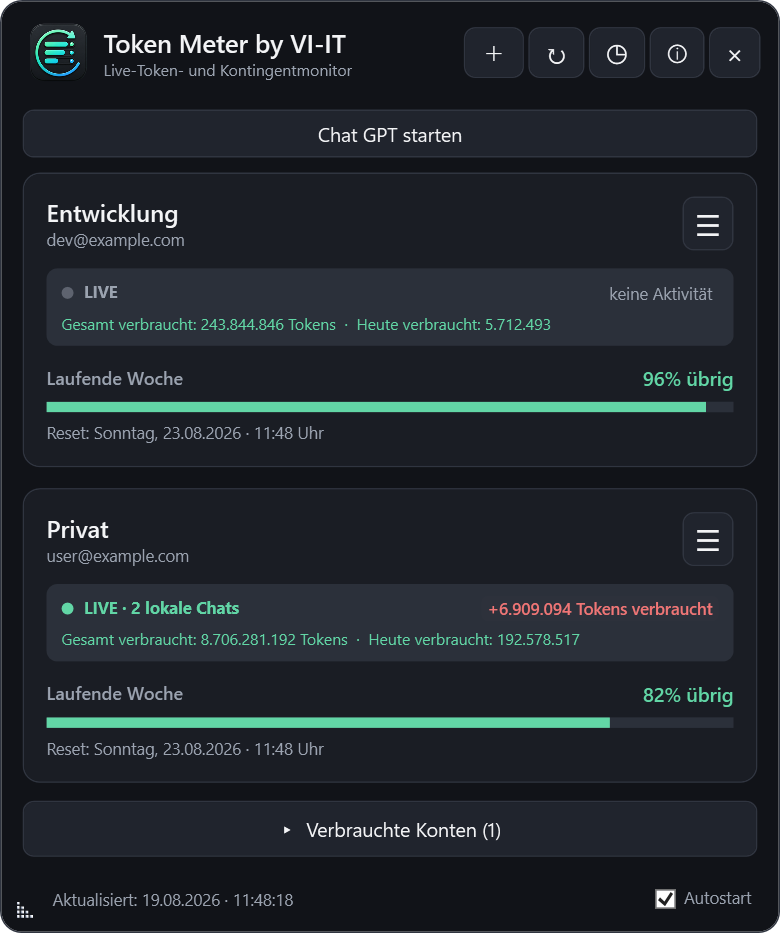
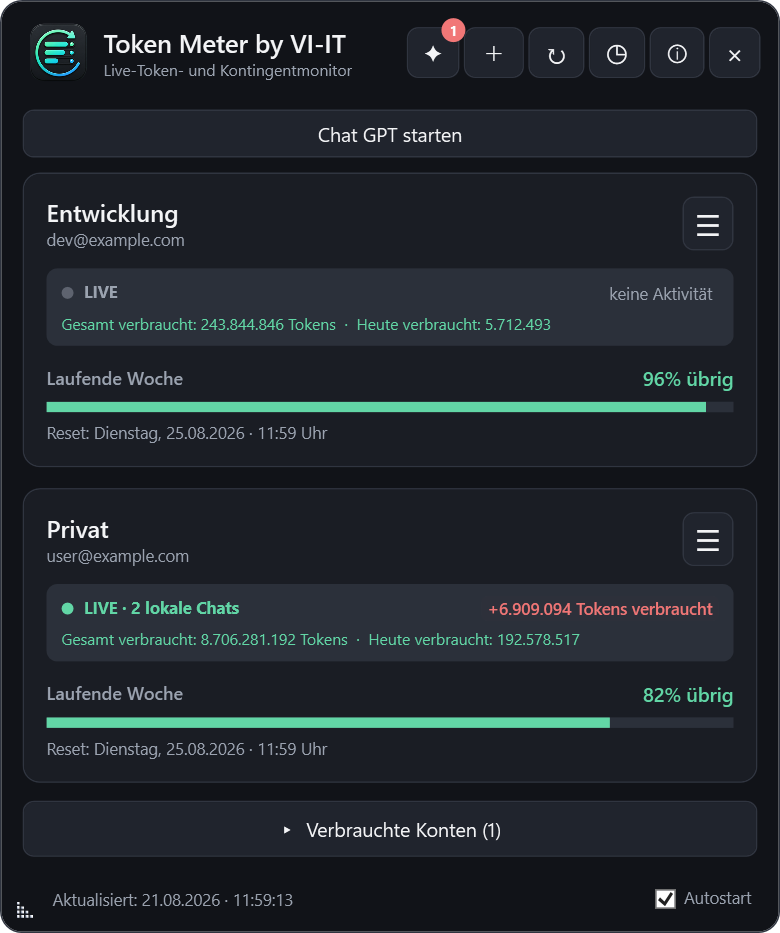
Publish Token Meter 1.0.17 update UX and changelog translation (#3)

diff --git a/README.md b/README.md
@@ -35,6 +35,10 @@ Token Meter checks the public Codex Reset Timeline directly every two minutes. N
 ### Features
 
 - Receive automatic Windows alerts for newly reported global Codex usage resets
+- See unread official ChatGPT and Codex changelog entries from the last seven days in a red header badge
+- Open a centered in-app changelog view; opening it marks the currently shown OpenAI entries as read
+- Always show the original English OpenAI changelog and, on German Windows, offer a separate **Translate** button on every entry
+- Translate only the entry selected by the user through Google Translate and cache that German result locally
 - Keep reset notices visible in the app until they are acknowledged
 - Review a persistent reset history with announced, account-detected, globally confirmed and rejected states
 - Detect a fresh seven-day quota window even when the first observed value is already 95–99%
@@ -55,7 +59,7 @@ Token Meter checks the public Codex Reset Timeline directly every two minutes. N
 - Click an account card to open a movable compact quota monitor
 - Minimize the compact monitor to a clean native Windows taskbar progress indicator
 - Flash the compact monitor briefly when the remaining weekly percentage decreases
-- Install future GitHub releases automatically and silently at startup
+- Install future GitHub releases automatically at startup while showing download and installation progress
 - Wait for Token Meter and its background processes to exit before replacing program files during an update
 - Show download percentage and transferred megabytes while an update is being retrieved
 - Verify cached installers against GitHub's SHA-256 digest and restart through an independent update worker
@@ -64,7 +68,11 @@ Token Meter checks the public Codex Reset Timeline directly every two minutes. N
 
 Each account is authenticated separately through the OpenAI/Codex sign-in flow. Quota and account consumption totals are requested for the linked account. Local LIVE activity is derived from Codex session files on the Windows PC where Token Meter is running.
 
-Version 1.0.13 embeds the official stable Codex 0.148.0 component. Token Meter uses its newer account-usage response to show a separate credit balance whenever OpenAI supplies one. For eligible workspaces, it also requests the optional per-thread token and estimated credit/cost figures for locally active sessions. OpenAI does not return those estimates for every account, so the extra line stays hidden when the data is unavailable; weekly quota and local LIVE monitoring continue normally.
+The header update indicator reads the fixed official OpenAI page at [`learn.chatgpt.com/docs/changelog`](https://learn.chatgpt.com/docs/changelog) when Token Meter starts and every six hours while it is running. It counts previously unseen entries dated within the latest seven calendar days. Opening the view marks only the currently displayed entry IDs as read, so a later OpenAI entry can light the badge again. The most recently retrieved entries and read IDs are cached locally for offline display.
+
+The changelog always opens with the original English OpenAI text. On German installations, each entry has its own **Translate** button. Google Translate is contacted only after that button is selected and receives only the public text of that one entry. The returned German text is cached against a hash of the OpenAI source and reused until the source changes. A failed translation affects only the selected card; its English original remains visible. English installations never contact the translation service. No local AI translation model is bundled.
+
+The current build embeds the official stable Codex 0.148.0 component. Token Meter uses its newer account-usage response to show a separate credit balance whenever OpenAI supplies one. For eligible workspaces, it also requests the optional per-thread token and estimated credit/cost figures for locally active sessions. OpenAI does not return those estimates for every account, so the extra line stays hidden when the data is unavailable; weekly quota and local LIVE monitoring continue normally.
 
 Token Meter identifies the account currently used by the ChatGPT/Codex desktop session and places its LIVE chat count and local consumption back inside the matching account card. Several ChatGPT workspaces can legitimately use the same e-mail address, so matching also uses the account's reported usage and reset windows. If the result is still ambiguous, Token Meter uses a separate local row instead of assigning activity to the wrong account.
 
@@ -86,6 +94,7 @@ The central ChatGPT button opens the existing official ChatGPT desktop app. Open
 
 - No passwords are requested or stored by Token Meter
 - No analytics, advertising or VI-IT cloud service is used
+- The optional news indicator requests the public official OpenAI changelog; only a German user's explicit **Translate** action sends the selected public entry to Google, never Token Meter accounts, token values or authentication data
 - Account profiles, authentication material and usage snapshots remain on the local Windows device
 - The distributed installer contains no developer accounts, cookies, sessions, caches or access tokens
 - Removing an account from Token Meter removes only its local Token Meter profile
@@ -134,6 +143,10 @@ Token Meter prüft alle zwei Minuten direkt die öffentliche Codex Reset Timelin
 ### Funktionen
 
 - Automatische Windows-Mitteilungen über neu gemeldete globale Codex-Kontingentresets erhalten
+- Ungelesene offizielle ChatGPT- und Codex-Changelog-Einträge der letzten sieben Tage als rote Zahl in der Kopfzeile sehen
+- Mittig geöffneten Changelog direkt in Token Meter lesen; beim Öffnen gelten die aktuell angezeigten OpenAI-Einträge als gelesen
+- Englischen OpenAI-Originaltext immer direkt anzeigen und unter deutschem Windows pro Eintrag einen eigenen Button **Übersetzen** anbieten
+- Ausschließlich den vom Benutzer ausgewählten Eintrag über Google Translate übersetzen und die deutsche Fassung lokal speichern
 - Reset-Hinweise im Hauptfenster behalten, bis sie ausdrücklich bestätigt wurden
 - Gespeicherten Reset-Verlauf mit angekündigten, kontoabhängig erkannten, global bestätigten und verworfenen Ereignissen öffnen
 - Neues Sieben-Tage-Fenster auch dann erkennen, wenn der erste sichtbare Wert bereits bei 95–99 % liegt
@@ -154,7 +167,7 @@ Token Meter prüft alle zwei Minuten direkt die öffentliche Codex Reset Timelin
 - Kontokarte anklicken und einen frei verschiebbaren kompakten Prozentmonitor öffnen
 - Kompaktmonitor mit sauberem Windows-Fortschrittsbalken in die Taskleiste minimieren
 - Kompaktmonitor bei sinkendem Wochenkontingent kurz aufleuchten lassen
-- Zukünftige GitHub-Versionen beim Programmstart automatisch und still installieren
+- Zukünftige GitHub-Versionen beim Programmstart automatisch installieren und dabei Download- sowie Installationsfortschritt sichtbar anzeigen
 - Vor dem Ersetzen der Programmdateien auf das vollständige Ende von Token Meter und seinen Hintergrundprozessen warten
 - Beim Herunterladen eines Updates Prozent und übertragene Megabyte anzeigen
 - Zwischengespeicherte Installer anhand der GitHub-SHA-256-Prüfsumme prüfen und über einen unabhängigen Update-Wächter neu starten
@@ -163,7 +176,11 @@ Token Meter prüft alle zwei Minuten direkt die öffentliche Codex Reset Timelin
 
 Jedes Konto wird getrennt über den OpenAI-/Codex-Anmeldeablauf authentifiziert. Kontingent und kontobezogener Gesamtverbrauch werden für das verknüpfte Konto abgefragt. Die lokale LIVE-Aktivität wird aus Codex-Sitzungsdateien auf genau dem Windows-PC ermittelt, auf dem Token Meter läuft.
 
-Version 1.0.13 enthält die offizielle stabile Codex-Komponente 0.148.0. Token Meter nutzt deren erweiterte Kontoauskunft, um ein separates Credit-Guthaben anzuzeigen, sobald OpenAI dieses liefert. Bei dafür freigeschalteten Workspaces werden zusätzlich die optionalen Token- sowie geschätzten Credit-/Kostenwerte der lokal aktiven Sitzungen abgefragt. OpenAI stellt diese Schätzwerte nicht für jedes Konto bereit; fehlen sie, bleibt die Zusatzzeile ausgeblendet und Wochenkontingent sowie lokale LIVE-Erkennung funktionieren unverändert weiter.
+Die Neuerungsanzeige in der Kopfzeile liest beim Start und anschließend alle sechs Stunden ausschließlich die feste offizielle OpenAI-Seite [`learn.chatgpt.com/docs/changelog`](https://learn.chatgpt.com/docs/changelog). Gezählt werden bisher ungelesene Einträge aus den letzten sieben Kalendertagen. Beim Öffnen werden nur die gerade angezeigten Eintrags-IDs als gelesen gespeichert; ein späterer neuer OpenAI-Eintrag aktiviert die rote Zahl deshalb erneut. Der zuletzt geladene Stand und die gelesenen IDs bleiben lokal gespeichert, damit das Fenster auch bei einer vorübergehend fehlenden Verbindung Inhalt zeigen kann.
+
+Der Changelog öffnet immer mit dem englischen OpenAI-Originaltext. In der deutschen Oberfläche besitzt jeder Eintrag einen eigenen Button **Übersetzen**. Erst dieser bewusste Klick kontaktiert Google Translate und übermittelt ausschließlich den öffentlichen Text des gewählten Eintrags. Die deutsche Fassung wird über einen Hash dem OpenAI-Quelleintrag zugeordnet und bis zu einer Änderung wiederverwendet. Schlägt eine Übersetzung fehl, betrifft das nur die ausgewählte Karte und ihr englisches Original bleibt sichtbar. Englische Installationen kontaktieren den Übersetzungsdienst nie. Ein lokales KI-Übersetzungsmodell wird nicht mitgeliefert.
+
+Der aktuelle Build enthält die offizielle stabile Codex-Komponente 0.148.0. Token Meter nutzt deren erweiterte Kontoauskunft, um ein separates Credit-Guthaben anzuzeigen, sobald OpenAI dieses liefert. Bei dafür freigeschalteten Workspaces werden zusätzlich die optionalen Token- sowie geschätzten Credit-/Kostenwerte der lokal aktiven Sitzungen abgefragt. OpenAI stellt diese Schätzwerte nicht für jedes Konto bereit; fehlen sie, bleibt die Zusatzzeile ausgeblendet und Wochenkontingent sowie lokale LIVE-Erkennung funktionieren unverändert weiter.
 
 Token Meter erkennt das gerade von der ChatGPT-/Codex-Desktop-Sitzung verwendete Konto und zeigt LIVE-Chats sowie lokalen Verbrauch wieder in der passenden Kontokarte an. Mehrere ChatGPT-Arbeitsbereiche können dieselbe E-Mail-Adresse verwenden; deshalb werden zusätzlich der gemeldete Verbrauch und die Reset-Fenster verglichen. Bleibt die Zuordnung mehrdeutig, erscheint eine getrennte lokale Zeile, statt Aktivität einem falschen Konto zuzuweisen.
 
@@ -185,6 +202,7 @@ Der zentrale ChatGPT-Button öffnet die bereits installierte offizielle ChatGPT-
 
 - Token Meter fragt keine Passwörter ab und speichert keine Passwörter
 - Keine Analysefunktionen, Werbung oder VI-IT-Cloud
+- Die optionale Neuerungsanzeige ruft den öffentlichen offiziellen OpenAI-Changelog ab; erst ein ausdrücklicher Klick auf **Übersetzen** sendet den gewählten öffentlichen Eintrag an Google, niemals Token-Meter-Konten, Tokenwerte oder Anmeldedaten
 - Kontoprofile, Authentifizierungsdaten und Nutzungsstände bleiben lokal auf dem Windows-Gerät
 - Der veröffentlichte Installer enthält keine Entwicklerkonten, Cookies, Sitzungen, Caches oder Zugriffstoken
 - Das Entfernen eines Kontos löscht ausschließlich dessen lokales Token-Meter-Profil

diff --git a/RELEASE_NOTES.md b/RELEASE_NOTES.md
@@ -1,33 +1,57 @@
-# Token Meter by VI-IT 1.0.13
+# Token Meter by VI-IT 1.0.17
 
 ## English
 
-Updates the embedded Codex component and adds truthful, capability-based credit and session-usage details.
+Makes changelog translation user-controlled and adds visible automatic-update progress.
 
-- Replaces the embedded Codex component with the official stable Codex CLI 0.148.0
-- Shows the separate OpenAI credit balance only when the account service reports an actual balance
-- Requests optional active-session token and estimated credit/USD figures introduced with Codex 0.148
-- Keeps those optional details hidden for accounts or workspaces where OpenAI does not provide them
-- Uses local session metadata to keep the LIVE count assigned to the matching account, with a separate local row when the match is ambiguous
-- Adds compatibility checks for the 0.148 app-server handshake, account usage, thread listing and per-thread usage response
-- Includes the authentication, reconnect and Windows reliability fixes shipped in Codex 0.148
+- Adds a new updates button immediately to the left of the add-account button
+- Reads the official OpenAI ChatGPT and Codex changelog directly from learn.chatgpt.com
+- Counts previously unseen official entries from the latest seven calendar days
+- Shows the unread count in a red badge; opening the view clears the count for the entries currently shown
+- Re-enables the badge automatically when OpenAI publishes another entry
+- Opens the changelog in a resizable window centered on the current screen
+- Always opens every changelog entry with the English OpenAI original
+- Adds one **Translate** button to every entry when Token Meter runs in German
+- Places that button at the beginning of each card before the potentially long changelog body
+- Contacts Google Translate only after the user selects that button and translates only the selected public entry
+- Sends long translations sequentially instead of creating parallel Google requests
+- Recognizes Google's HTTP 429 response, pauses further attempts for ten minutes and shows a precise per-entry message
+- Caches successful German translations locally and lets the user switch the selected card back to its original
+- Shows a failure only on the selected card while leaving all English originals available
+- Opens a dedicated progress window while an automatic update is downloaded
+- Shows the installer's progress during the unattended installation and restarts Token Meter afterwards
+- Caches the most recently retrieved entries and read IDs locally for temporary offline use
+- Sends only the public OpenAI changelog text for translation; no Token Meter account, token or authentication data is sent to Google
+- Adds no bundled AI translation model and therefore no large model payload to the installer
 - Keeps all existing accounts, authentication profiles, settings and quota history during the update
 
 ## Deutsch
 
-Aktualisiert die integrierte Codex-Komponente und ergänzt ehrliche, nur bei vorhandener Unterstützung sichtbare Credit- und Sitzungsdaten.
+Macht Changelog-Übersetzungen zur bewussten Benutzerauswahl und zeigt den Fortschritt automatischer Programmupdates sichtbar an.
 
-- Ersetzt die integrierte Codex-Komponente durch die offizielle stabile Codex CLI 0.148.0
-- Zeigt das separate OpenAI-Credit-Guthaben nur, wenn der Kontodienst ein echtes Guthaben meldet
-- Fragt die mit Codex 0.148 eingeführten optionalen Token- sowie geschätzten Credit-/USD-Werte aktiver Sitzungen ab
-- Blendet diese Zusatzdaten bei Konten oder Workspaces ohne OpenAI-Unterstützung vollständig aus
-- Ordnet die lokale LIVE-Anzahl weiterhin anhand lokaler Sitzungsmetadaten dem passenden Konto zu und verwendet bei Mehrdeutigkeit eine getrennte lokale Zeile
-- Ergänzt Kompatibilitätsprüfungen für 0.148-Handshake, Kontoauskunft, Sitzungsliste und sitzungsbezogene Nutzung
-- Übernimmt die in Codex 0.148 enthaltenen Verbesserungen für Anmeldung, Wiederverbindung und Windows-Zuverlässigkeit
+- Fügt direkt links neben dem Plus für neue Konten einen Neuerungs-Button ein
+- Liest den offiziellen ChatGPT- und Codex-Changelog direkt von learn.chatgpt.com
+- Zählt bisher ungelesene offizielle Einträge aus den letzten sieben Kalendertagen
+- Zeigt die Anzahl als rote Zahl; beim Öffnen gelten die aktuell dargestellten Einträge als gelesen
+- Aktiviert die rote Zahl automatisch wieder, sobald OpenAI einen weiteren Eintrag veröffentlicht
+- Öffnet den Changelog in einem größenveränderbaren Fenster mittig auf dem aktuellen Bildschirm
+- Öffnet jeden Changelog-Eintrag grundsätzlich mit dem englischen OpenAI-Original
+- Zeigt in der deutschen Oberfläche bei jedem Eintrag einen eigenen Button **Übersetzen**
+- Platziert diesen Button direkt am Anfang jeder Karte vor dem möglicherweise langen Changelog-Text
+- Kontaktiert Google Translate erst nach diesem Klick und übersetzt ausschließlich den ausgewählten öffentlichen Eintrag
+- Übersetzt lange Texte nacheinander, statt mehrere Google-Anfragen parallel auszulösen
+- Erkennt Googles HTTP-Status 429, pausiert weitere Versuche zehn Minuten und zeigt den konkreten Grund direkt am Eintrag
+- Speichert erfolgreiche deutsche Übersetzungen lokal und erlaubt für die gewählte Karte den Wechsel zurück zum Original
+- Zeigt einen Übersetzungsfehler ausschließlich an der ausgewählten Karte; alle englischen Originale bleiben verfügbar
+- Öffnet beim Herunterladen eines automatischen Programmupdates ein eigenes Fortschrittsfenster
+- Zeigt anschließend den Installationsfortschritt, installiert weiterhin unbeaufsichtigt und startet Token Meter danach neu
+- Speichert den zuletzt geladenen Stand und gelesene IDs lokal für vorübergehenden Offlinebetrieb
+- Übermittelt zur Übersetzung ausschließlich öffentlichen OpenAI-Changelog-Text; keine Token-Meter-Konten, Tokenstände oder Anmeldedaten gehen an Google
+- Enthält kein lokales KI-Übersetzungsmodell und vergrößert den Installer daher nicht um ein Modellpaket
 - Behält beim Update alle bestehenden Konten, Anmeldeprofile, Einstellungen und den Kontingentverlauf bei
 
 ## Verification / Prüfung
 
 `Token-Meter-by-VI-IT-Setup.exe`
 
[2 lines of base64/hex data omitted]

diff --git a/PRIVACY.md b/PRIVACY.md
@@ -8,7 +8,7 @@ Accounts are added through the OpenAI/Codex authentication flow. Local account p
 
 The public installer is built without developer accounts, user accounts, passwords, cookies, browser caches, sessions or access tokens. VI-IT does not receive account credentials or usage snapshots through Token Meter.
 
-Network connections are made to OpenAI/ChatGPT for authentication and usage refresh, to GitHub Releases for automatic application updates, and to the public `codex-reset.com` timeline for optional global-reset notifications. Timeline requests contain no Token Meter account data, authentication material or usage snapshots. Those services can receive standard connection data such as the public IP address and apply their own privacy policies.
+Network connections are made to OpenAI/ChatGPT for authentication, usage refresh and the public official changelog; to GitHub Releases for automatic application updates; and to the public `codex-reset.com` timeline for optional global-reset notifications. The changelog always displays the English original first. On a German interface, Google Translate (`translate.googleapis.com`) is contacted only after the user selects **Translate** for a specific entry; only that public OpenAI text is sent. The result is cached locally and reused until the OpenAI source changes. English installations do not offer or make this translation request. No Token Meter account data, authentication material, token values or usage snapshots are sent to Google Translate or the public reset timeline. These services can receive standard connection data such as the public IP address and apply their own privacy policies.
 
 ## Deutsch
 
@@ -18,4 +18,4 @@ Konten werden über den OpenAI-/Codex-Anmeldeablauf hinzugefügt. Lokale Kontopr
 
 Der öffentliche Installer enthält keine Entwicklerkonten, Benutzerkonten, Passwörter, Cookies, Browser-Caches, Sitzungen oder Zugriffstoken. VI-IT erhält über Token Meter keine Zugangsdaten oder Nutzungsstände.
 
-Netzwerkverbindungen erfolgen zu OpenAI/ChatGPT für Anmeldung und Kontingentaktualisierung, zu GitHub Releases für automatische Programmupdates sowie zur öffentlichen Timeline `codex-reset.com` für optionale Mitteilungen über globale Resets. Die Timeline-Anfrage enthält keine Token-Meter-Kontodaten, Authentifizierungsdaten oder Nutzungsstände. Diese Dienste können übliche Verbindungsdaten wie die öffentliche IP-Adresse erhalten; für sie gelten die jeweiligen Datenschutzbestimmungen.
+Netzwerkverbindungen erfolgen zu OpenAI/ChatGPT für Anmeldung, Kontingentaktualisierung und den öffentlichen offiziellen Changelog, zu GitHub Releases für automatische Programmupdates sowie zur öffentlichen Timeline `codex-reset.com` für optionale Mitteilungen über globale Resets. Der Changelog zeigt zunächst immer das englische Original. Bei deutscher Programmoberfläche wird Google Translate (`translate.googleapis.com`) erst kontaktiert, nachdem der Benutzer bei einem bestimmten Eintrag **Übersetzen** gewählt hat; übermittelt wird ausschließlich dieser öffentliche OpenAI-Text. Das Ergebnis wird lokal gespeichert und bis zu einer Änderung des OpenAI-Quelltexts wiederverwendet. Englische Installationen bieten diese Übersetzungsanfrage nicht an. An Google Translate oder die öffentliche Reset-Timeline gehen keine Token-Meter-Kontodaten, Authentifizierungsdaten, Tokenwerte oder Nutzungsstände. Diese Dienste können übliche Verbindungsdaten wie die öffentliche IP-Adresse erhalten; für sie gelten die jeweiligen Datenschutzbestimmungen.

diff --git a/PUBLISHING.md b/PUBLISHING.md
@@ -13,6 +13,6 @@ To publish an update:
 5. Attach `SHA256.txt` and add release notes.
 6. Publish the release and mark it as the latest release.
 
-Installed copies check GitHub at startup and every six hours. When the release tag is newer, Token Meter by VI-IT downloads the installer, installs it silently, and restarts automatically. If the automatic installation fails, the app keeps a manual download fallback visible.
+Installed copies check GitHub at startup and every six hours. When the release tag is newer, Token Meter by VI-IT downloads the installer, shows download and installation progress, installs it unattended, and restarts automatically. If the automatic installation fails, the app keeps a manual download fallback visible.
 
 The public repository contains release documentation and binaries only. Do not upload the private application source.
